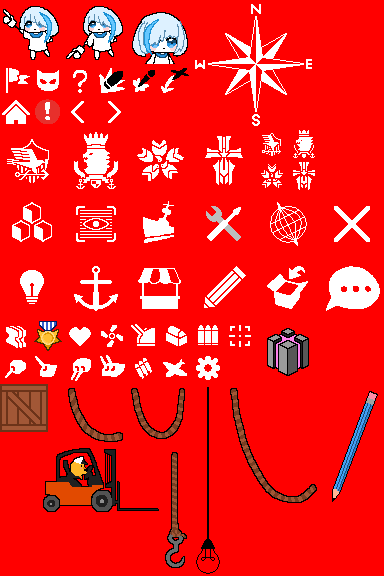
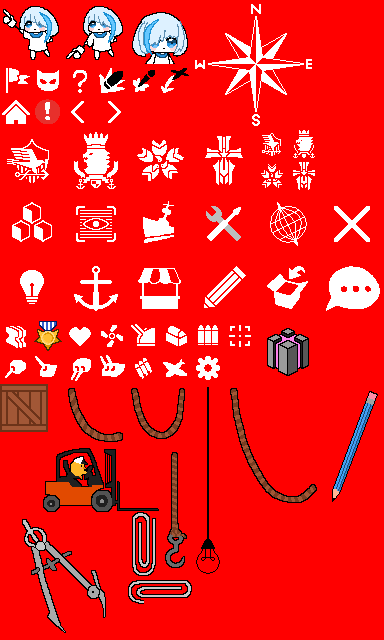
some decorations for the dossier + blueprint overlays

Changed region(s): [[0.0, 0.0, 1.0, 1.0], [0.8438, 0.3125, 1.0, 0.5625]]

diff --git a/src/menus/port_menu.py b/src/menus/port_menu.py
@@ -166,7 +166,7 @@ class PortMenu:
         self.dossier_overlay = get_rect(
             width=num_items_in_row*(Box.WIDTH + Box.PADDING) + 4*Box.PADDING,
             height=num_items_in_col*(Box.HEIGHT + Box.PADDING) + 3*Box.PADDING + Box.HEIGHT,
-            right=screen_x(0.5),
+            right=screen_x(0.5) + Box.WIDTH,
             centery=screen_y(0.5)
         )
         # Manila folder background
@@ -182,7 +182,7 @@ class PortMenu:
         self.dossier_tabs = [
             get_rect(
                 width=tab_size, height=tab_size,
-                left=self.dossier_bg.left+i*(tab_size+Box.PADDING),
+                left=self.dossier_bg.left+i*Box.WIDTH,
                 bottom=self.dossier_bg.top
             ) for i in range(num_dossier_tabs)
         ]
@@ -214,10 +214,10 @@ class PortMenu:
 
         # Blueprint-themed right panel
         self.blueprint_page = get_rect(
-            left=screen_x(0.5)+Box.PADDING,
-            centery=screen_y(0.5),
             width=4*(Box.WIDTH + Box.PADDING) + Box.PADDING,
-            height=5*(Box.HEIGHT + Box.PADDING) + Box.PADDING
+            height=5*(Box.HEIGHT + Box.PADDING) + Box.PADDING,
+            left=self.dossier_overlay.right+Box.PADDING,
+            centery=screen_y(0.5),
         )
         # Crooked blueprint page for styling
         blueprint_page_center = pygame.Vector2(self.blueprint_page.center)
@@ -237,7 +237,7 @@ class PortMenu:
         self.warehouse_overlay = get_rect(
             width=num_items_in_row*(Box.WIDTH+Box.PADDING) + Box.PADDING,
             height=num_items_in_col*(Box.HEIGHT+Box.PADDING) + Box.PADDING,
-            right=screen_x(0.5),
+            right=screen_x(0.5) + Box.WIDTH/2,
             centery=screen_y(0.4)
         )
         self.warehouse_icons = [
@@ -256,7 +256,7 @@ class PortMenu:
         self.clipboard_bg = get_rect(
             width=3*(Box.WIDTH+Box.PADDING) + 3*Box.PADDING,
             height=4*(Box.HEIGHT+Box.PADDING) + 3*Box.PADDING + Box.HEIGHT/2,
-            left=screen_x(0.5) + Box.PADDING,
+            left=self.warehouse_overlay.right + Box.WIDTH/2,
             centery=screen_y(0.5)
         )
         self.clipboard_page = get_rect(
@@ -734,7 +734,14 @@ class PortMenu:
                 color = Color.DOSSIER
             else:
                 color = Color.DOSSIER_BACK
-            pygame.draw.rect(surface, color, rect)
+            tab_extra_width = Box.WIDTH - rect.width
+            tab_polygon = [
+                rect.bottomleft,
+                rect.topleft,
+                rect.topright,
+                pygame.Vector2(rect.bottomright) + pygame.Vector2(tab_extra_width, 0),
+            ]
+            pygame.draw.polygon(surface, color, tab_polygon)
             icon = DataFiles.sprites["user_interface"][cat]
             icon_rect = icon.get_rect()
             icon_rect.centerx = rect.left + rect.height/2
@@ -773,6 +780,12 @@ class PortMenu:
             image_rect.center = rect.center
             surface.blit(image, image_rect)
             pygame.draw.rect(surface, Color.BLACK, rect, width=Box.OUTLINE_WIDTH)
+        
+        overlay_paperclip_sprite = DataFiles.sprites["user_interface"]["overlay_paperclip"]
+        overlay_paperclip_rect = overlay_paperclip_sprite.get_rect()
+        overlay_paperclip_rect.left = self.dossier_bg.left - Box.WIDTH/4 # TODO alignment
+        overlay_paperclip_rect.top = self.dossier_bg.top
+        surface.blit(overlay_paperclip_sprite, overlay_paperclip_rect)
 
     def draw_blueprint_overlay(self, surface, font):
         if self.overlay_selected_entity is None:
@@ -889,6 +902,18 @@ class PortMenu:
             font.render(surface, icon_text, xy, Color.WHITE, 1, style="center", outline_color=Color.BLACK)
 
         self.overlay_confirm_button.draw(surface, font)
+
+        overlay_pencil_sprite = DataFiles.sprites["user_interface"]["overlay_pencil"]
+        overlay_pencil_rect = overlay_pencil_sprite.get_rect()
+        overlay_pencil_rect.right = self.blueprint_page.right + Box.WIDTH/4 # TODO alignment
+        overlay_pencil_rect.bottom = self.blueprint_page.bottom + Box.HEIGHT/2
+        surface.blit(overlay_pencil_sprite, overlay_pencil_rect)
+
+        overlay_compass_sprite = DataFiles.sprites["user_interface"]["overlay_compass"]
+        overlay_compass_rect = overlay_compass_sprite.get_rect()
+        overlay_compass_rect.left = self.blueprint_page.left - Box.WIDTH/2 # TODO alignment
+        overlay_compass_rect.bottom = self.blueprint_page.bottom + Box.HEIGHT/2
+        surface.blit(overlay_compass_sprite, overlay_compass_rect)
 
     def draw_warehouse_overlay(self, surface, font):
         pygame.draw.rect(surface, Color.CARGO_BOX_BACK, self.warehouse_overlay)
@@ -1039,11 +1064,11 @@ class PortMenu:
 
         self.overlay_confirm_button.draw(surface, font)
 
-        clipboard_pencil_sprite = DataFiles.sprites["user_interface"]["clipboard_pencil"]
-        clipboard_pencil_rect = clipboard_pencil_sprite.get_rect()
-        clipboard_pencil_rect.right = self.clipboard_page.right + Box.WIDTH/2 # TODO
-        clipboard_pencil_rect.bottom = self.clipboard_page.bottom + Box.HEIGHT/2
-        surface.blit(clipboard_pencil_sprite, clipboard_pencil_rect)
+        overlay_pencil_sprite = DataFiles.sprites["user_interface"]["overlay_pencil"]
+        overlay_pencil_rect = overlay_pencil_sprite.get_rect()
+        overlay_pencil_rect.right = self.clipboard_page.right + Box.WIDTH/4 # TODO alignment
+        overlay_pencil_rect.bottom = self.clipboard_page.bottom + Box.HEIGHT/2
+        surface.blit(overlay_pencil_sprite, overlay_pencil_rect)
 
     def rotate_decoration_direction(self):
         self.decoration_direction_index = (self.decoration_direction_index + 1) % len(self.DECORATION_DIRECTIONS)
